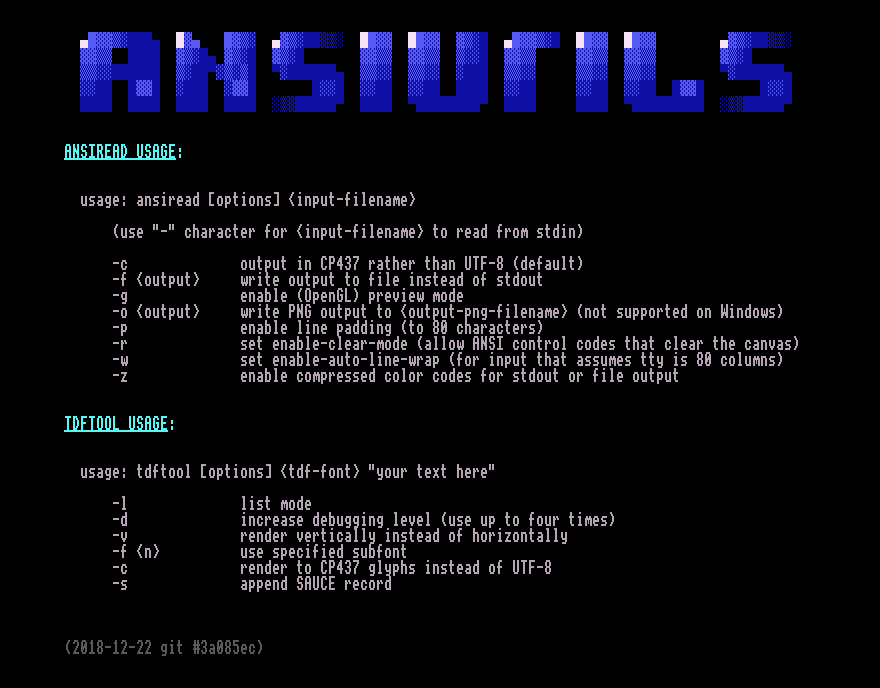
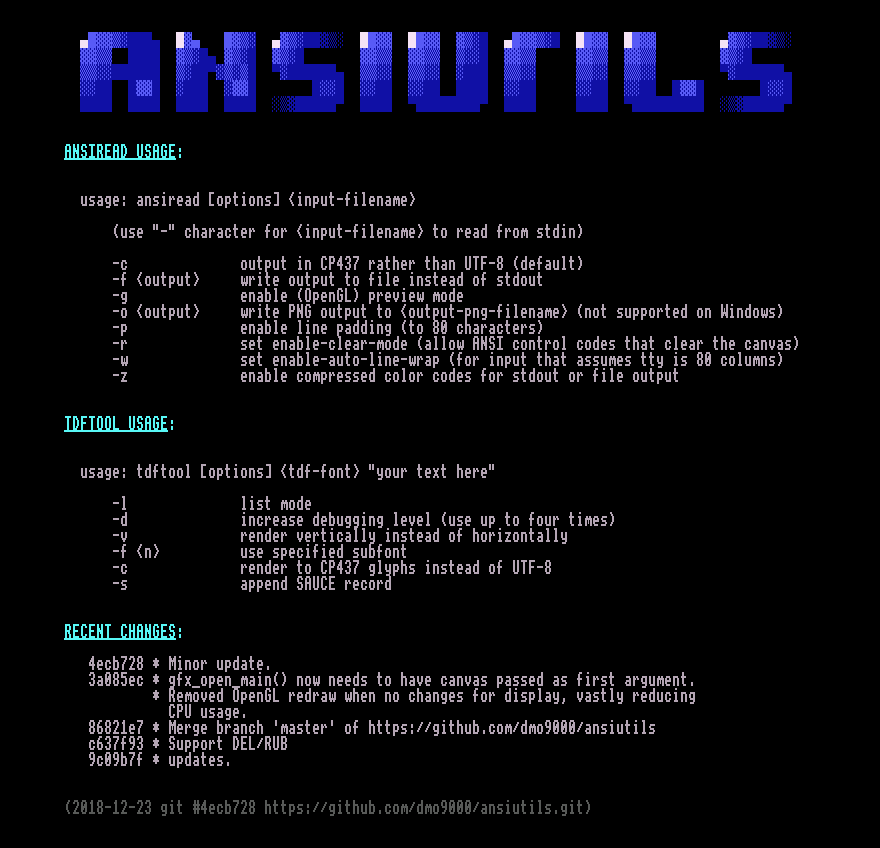
Added recent git summary to the generated README.

Changed region(s): [[0.0614, 0.0305, 0.9205, 0.9767]]

diff --git a/ansistate.c b/ansistate.c
@@ -661,6 +661,11 @@ void dispatch_ansi_text_attributes()
             attributes |= ATTRIB_REVERSE;
             goto next_parameter;
             break;
+				case 10:
+						/* primary - default font - currently no effect */
+						printf("[DEFAULT FONT:10m]\n");
+						goto next_parameter;
+						break;
         case 21:
             if (debug_flag) {
                 printf("  * disable ATTRIB_BOLD\n");
@@ -700,6 +705,16 @@ void dispatch_ansi_text_attributes()
             attributes &= ~ATTRIB_REVERSE;
             goto next_parameter;
             break;
+				case 39:
+						/* default foreground color - currently not implemented*/
+						printf("[39m:DEFAULT FOREGROUND COLOR::NOT IMPLEMENTED YET]\n");
+						goto next_parameter;
+						break;
+				case 49:
+						/* default background color - currently not implemented*/
+						printf("[39m:DEFAULT BACKGROUND COLOR::NOT IMPLEMENTED YET]\n");
+						goto next_parameter;
+						break;
         default:
             printf("unknown 'm' parameter value: %u (paramidx=%u, ansiflags=%u)\n", parameters[i], paramidx, ansiflags);
             assert(NULL);
@@ -804,10 +819,18 @@ void dispatch_ansi_command(ANSICanvas *canvas, unsigned char c)
         /* move cursor up parameter[0] rows without changing column */
         current_y-=(parameters[0] ? parameters[0] : 1);
         break;
+		case 'b':
+				/* testing */
+				printf("[1B 5B 62:SRL - SCROLL LEFT? NOT IMPLEMENTED]\n");
+				break;
     case 'B':
         /* move cursor down parameter[0] rows without changing column */
         current_y+=(parameters[0] ? parameters[0] : 1);
         break;
+		case 'G':
+				/* unix mode reset? not implemented! */
+				printf("[1B 5B 62:UMR - UNIX MODE RESET? NOT IMPLEMENTED!]\n");
+				break;
     case 'J':
         /* move home and clear screen - set the clear flag on the canvas if we encounter this */
         if (allow_clear) {
@@ -824,6 +847,10 @@ void dispatch_ansi_command(ANSICanvas *canvas, unsigned char c)
         /* move cursor to the right N characters */
         dispatch_ansi_cursor_right(canvas);
         break;
+    case 'd':
+				/* testing - space supress reset? */
+				printf("[1B 5B 64:SSR - SPACE SUPPRESS RESET? NOT IMPLEMENTED]\n");
+				break;
     case 'D':
         /* move cursor to the left N characters */
         dispatch_ansi_cursor_left(canvas);
@@ -842,6 +869,11 @@ void dispatch_ansi_command(ANSICanvas *canvas, unsigned char c)
             current_x = parameters[1];
         }
         break;
+		case 'M':
+				/* see: http://www2.gar.no/glinkj/help/cmds/vipa.htm */
+				/* delete line - UE4 prototype has implementation of this*/
+				printf("{DL	Delete line	esc [ M	1B 5B 4D} - NOT IMPLEMENTED\n");
+				break;
     case 'm':
         /* text attributes */
         dispatch_ansi_text_attributes();
@@ -852,6 +884,7 @@ void dispatch_ansi_command(ANSICanvas *canvas, unsigned char c)
         break;
     default:
         printf("+++ unknown ansi command '%c'\n", c);
+				assert(NULL);
         exit(1);
         break;
     }

diff --git a/gfx_opengl.c b/gfx_opengl.c
@@ -59,9 +59,11 @@ void updateTexture()
 
     if (canvas_is_dirty(myCanvas)) {
         //printf("updateTexture() dirty\n");
+    		myCanvas->is_dirty=false;
     } else {
-        //printf("updateTexture() clean\n");
-        usleep(5000);
+     //   printf("updateTexture() clean\n");
+        usleep(10000);
+				pthread_yield();
         return;
     }
 
@@ -82,7 +84,6 @@ void updateTexture()
         glutSwapBuffers();
     }
 
-    myCanvas->is_dirty=false;
 
 }
 
@@ -167,7 +168,7 @@ int gfx_opengl_hwscroll()
 
     int x =0, y = 0;
     char *src_addr, *dest_addr = NULL;
-    printf("gfx_opengl_hwscroll()\r\n");
+//    printf("gfx_opengl_hwscroll()\r\n");
 
     src_addr = screenData;
     dest_addr = screenData;
@@ -190,7 +191,7 @@ int gfx_opengl_hwscroll()
         memset(dest_addr, 0, gfx_opengl_width *3);
     }
 
-		myCanvas->is_dirty=true;
+//		myCanvas->is_dirty=true;
     return 1;
 }
 
@@ -404,6 +405,8 @@ int gfx_opengl_render_cursor(ANSICanvas *canvas, BitmapFont *myfont, uint16_t x,
         gfx_opengl_drawglyph(myfont, x, y, r->chardata[x], r->fgcolors[x], r->bgcolors[x], r->attribs[x]);
         break;
     }
+
+		canvas->is_dirty=true;
 
     return 1;
 }
